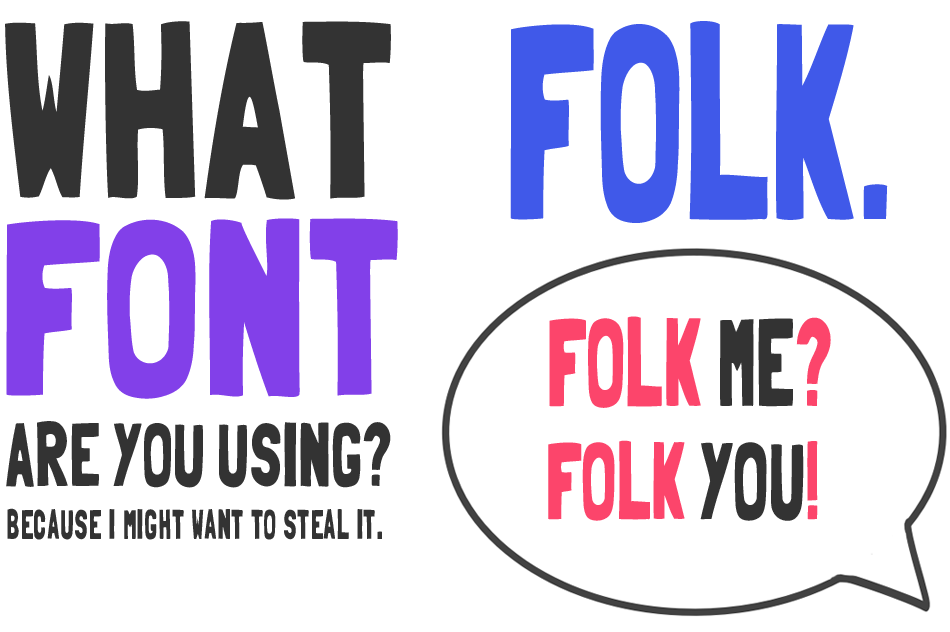
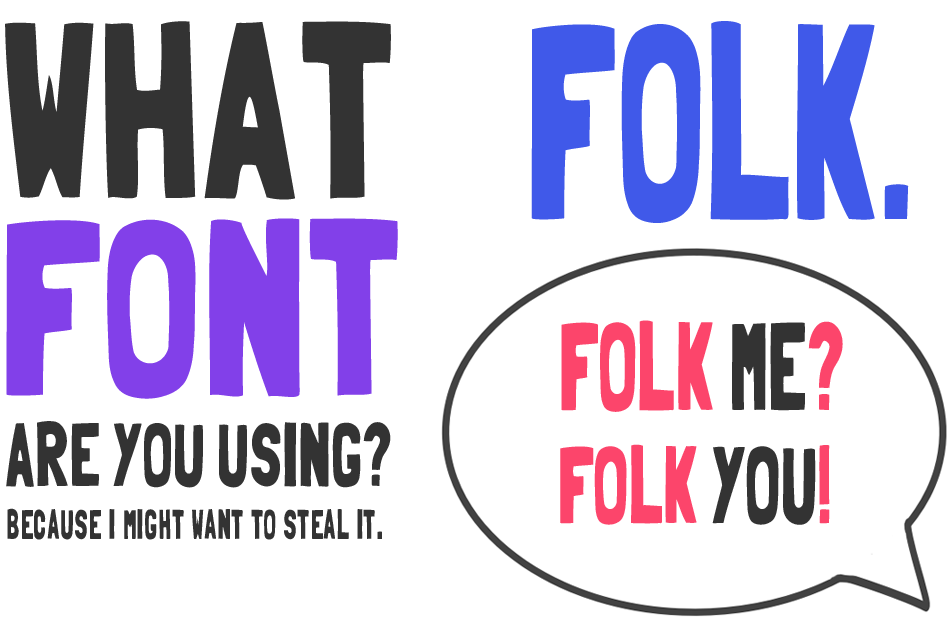
Updated templates and added new static content

Changed region(s): [[0.5189, 0.0301, 0.9768, 0.3608], [0.58, 0.481, 0.8853, 0.6614], [0.5495, 0.6915, 0.8853, 0.8418]]

diff --git a/static/css/main.css b/static/css/main.css
@@ -21,15 +21,16 @@ header .code a:hover{background-position-y:-88px;}
 .headline .pagination{background:url('/static/img/pagination.png') no-repeat center center;height:620px;margin:0 auto 50px;width:950px;}
 .headline .about_headline{background:url('/static/img/about_headline.png') no-repeat center center;height:620px;margin:0 auto 50px;width:950px;}
 .headline .what_font{background:url('/static/img/what_font.png') no-repeat center center;margin-top:50px;height:620px;margin:0 auto 50px;width:950px;}
+.headline .what_framework{background:url('/static/img/what_framework.png') no-repeat center center;height:620px;margin:0 auto 50px;width:950px;height:530px;}
 .screencast{margin:100px 0 150px;}
 .description{float:left;font-size:16px;line-height:1.5;width:33%;}.description h2{font:normal 55px 'Folk',sans-serif;margin:0 auto 35px;width:100%;}.description h2 a{display:inline-block;padding:10px;text-transform:uppercase;}
 .description p{text-align:justify;}
 .content{float:right;width:63%;}.content iframe{display:block;margin:0 auto;}
-.pages{margin:0 auto;width:90%;}.pages a{height:100px;width:280px;}
+.pages{margin:0 auto 50px;width:90%;}.pages a{height:100px;width:280px;}
 .pages a:hover{background-position-y:-90px;}
-.pages .prev_page{background:url('/static/img/prev.png') no-repeat 0 10px;float:left;}
+.pages .prev_page{background:url('/static/img/prev.png') no-repeat 0 12px;float:left;}
 .pages .next_page{background:url('/static/img/next.png') no-repeat 0 10px;float:right;}
 .super_logo{margin:0 auto;height:75px;width:75px;}
-footer{display:block;margin:125px auto 20px;}footer a.super_logo{background:url('/static/img/super_z.png') no-repeat center center;}
+footer{display:block;margin:75px auto 20px;}footer a.super_logo{background:url('/static/img/super_z.png') no-repeat center center;}
 footer a.super_logo:hover{background:url('/static/img/super_z_color.png') no-repeat center center;}
 footer:after{content:url('/static/img/super_z_color.png');display:none;}

diff --git a/static/css/main.less b/static/css/main.less
@@ -102,6 +102,11 @@ header{
         margin-top: 50px;
         .large_image;
     }
+    .what_framework{
+        background: url('/static/img/what_framework.png') no-repeat center center;
+        .large_image;
+        height: 530px;
+    }
 }
 .screencast{
     margin: 100px 0 150px;
@@ -134,7 +139,7 @@ header{
     }
 }
 .pages{
-    margin: 0 auto;
+    margin: 0 auto 50px;
     width: @width;
     a{
         height: 100px;
@@ -144,7 +149,7 @@ header{
         background-position-y: -90px;
     }
     .prev_page{
-        background: url('/static/img/prev.png') no-repeat 0 10px;
+        background: url('/static/img/prev.png') no-repeat 0 12px;
         float: left;
     }
     .next_page{
@@ -159,7 +164,7 @@ header{
 }
 footer{
     display: block;
-    margin: 125px auto 20px;
+    margin: 75px auto 20px;
     a.super_logo{
         background: url('/static/img/super_z.png') no-repeat center center;
     }

diff --git a/screencasts/templates/index.html b/screencasts/templates/index.html
@@ -21,11 +21,11 @@
     {% if screencasts.previous_page_number == 1 %}
     <a class="ir prev_page" href="/">Previous</a>
     {% else %}
-    <a class="ir prev_page" href="/page/{{ screencasts.previous_page_number }}">Previous</a>
+    <a class="ir prev_page" href="{% url page page_num=screencasts.previous_page_number %}">Previous</a>
     {% endif %}
 {% endif %}
 {% if screencasts.has_next %}
-    <a class="ir next_page" href="/page/{{ screencasts.next_page_number }}">Next</a>
+    <a class="ir next_page" href="{% url page page_num=screencasts.next_page_number %}">Next</a>
 {% endif %}
 </div>
 

diff --git a/screencasts/templates/base.html b/screencasts/templates/base.html
@@ -55,11 +55,7 @@
   <script src="//ajax.googleapis.com/ajax/libs/jquery/1.6.2/jquery.min.js"></script>
   <script>window.jQuery || document.write('<script src="/static/js/libs/jquery-1.6.2.min.js">\x3C/script>')</script>
 
-  <script src="/static/js/libs/jquery.color.min.js" type="text/javascript"></script>
-  <script src="/static/js/main.js" type="text/javascript"></script>
-
   {% block js %}{% endblock %}
-
 
   <!--[if lt IE 7 ]>
     <script src="/static/js/libs/dd_belatedpng.js"></script>

diff --git a/screencasts/templates/about.html b/screencasts/templates/about.html
@@ -4,5 +4,6 @@
 <div class="headline">
     <div class="about_headline"></div>
     <div class="what_font"></div>
+    <div class="what_framework"></div>
 </div>
 {% endblock %}
